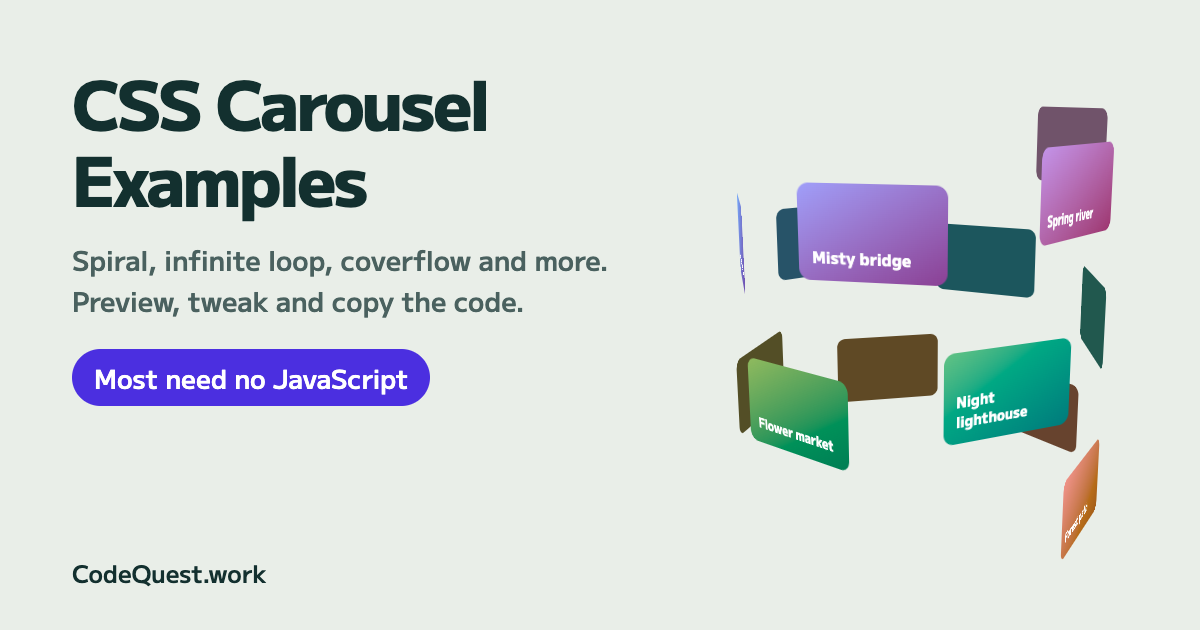
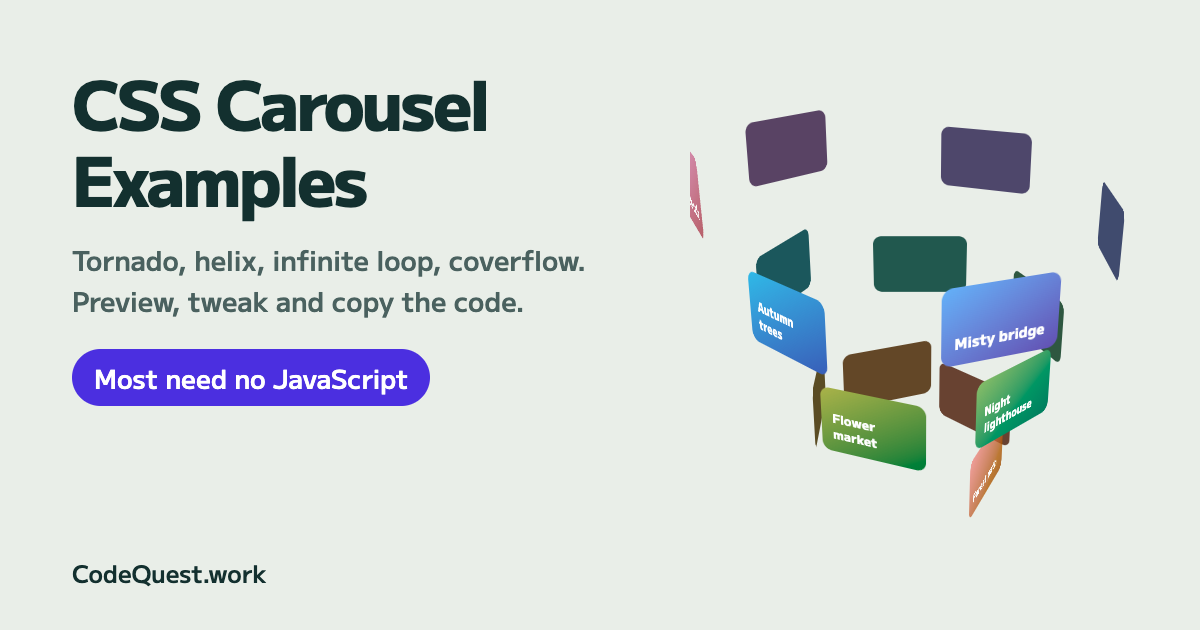
feat(carousel-gallery): 一番上の目玉をトルネードにし、Blender の B 案の数字を写す（16枚・3周・6秒・半径80→270px）
- OG 画像（日英）もトルネードに替える
- スマホ幅では螺旋を0.5倍に縮め、スクロールで昇る螺旋のサムネイルが欠けないようにする

Changed region(s): [[0.6167, 0.1508, 0.9558, 0.8746], [0.0617, 0.3921, 0.4933, 0.4524], [0.555, 0.2413, 0.5858, 0.3619]]

diff --git a/carousel-gallery/js/types/spiral.js b/carousel-gallery/js/types/spiral.js
@@ -42,7 +42,7 @@ const STAGE_CSS = (p, tilt, w, height) => `.${p}-stage {
   perspective: 1100px;
 }
 @media (max-width: 600px) {
-  .${p}-stage { --s: 0.6; }
+  .${p}-stage { --s: 0.5; }
 }
 .${p} {
   position: relative;
@@ -116,7 +116,7 @@ const TORNADO = {
     { key: "r1", label: { ja: "上の半径", en: "Top radius" }, min: 160, max: 360, step: 10, unit: "px" },
     { key: "turns", label: { ja: "周回の数", en: "Turns" }, min: 1, max: 5, step: 0.5, unit: "" },
   ],
-  defaults: { n: 16, dur: 16, r0: 60, r1: 260, turns: 3 },
+  defaults: { n: 16, dur: 6, r0: 80, r1: 270, turns: 3 },
   build(o, lang) {
     const p = "cg-tornado";
     const items = Array.from({ length: o.n }, (_, i) => item(p, i, o.n, lang)).join("\n    ");
@@ -323,4 +323,4 @@ ${CARD_CSS}`,
   },
 };
 
-export const SPIRAL = [HELIX, TORNADO, DNA, SCROLL_HELIX];
+export const SPIRAL = [TORNADO, HELIX, DNA, SCROLL_HELIX];

diff --git a/carousel-gallery/js/preview.js b/carousel-gallery/js/preview.js
@@ -18,6 +18,7 @@ body:not(.is-scroll) { overflow: hidden; }
 body.is-scroll { display: block; padding: 0; }
 body.is-thumb { zoom: var(--thumb, 0.5); min-height: calc(100vh / var(--thumb, 0.5)); pointer-events: none; overflow: hidden; }
 body.is-thumb div { --s: 1; }
+body.is-thumb.is-scroll [class$="-sticky"] { height: calc(100vh / var(--thumb, 0.5)); }
 .cg-hint { margin: 0; padding: 16px; text-align: center; color: #4a615f; }
 `;
 
